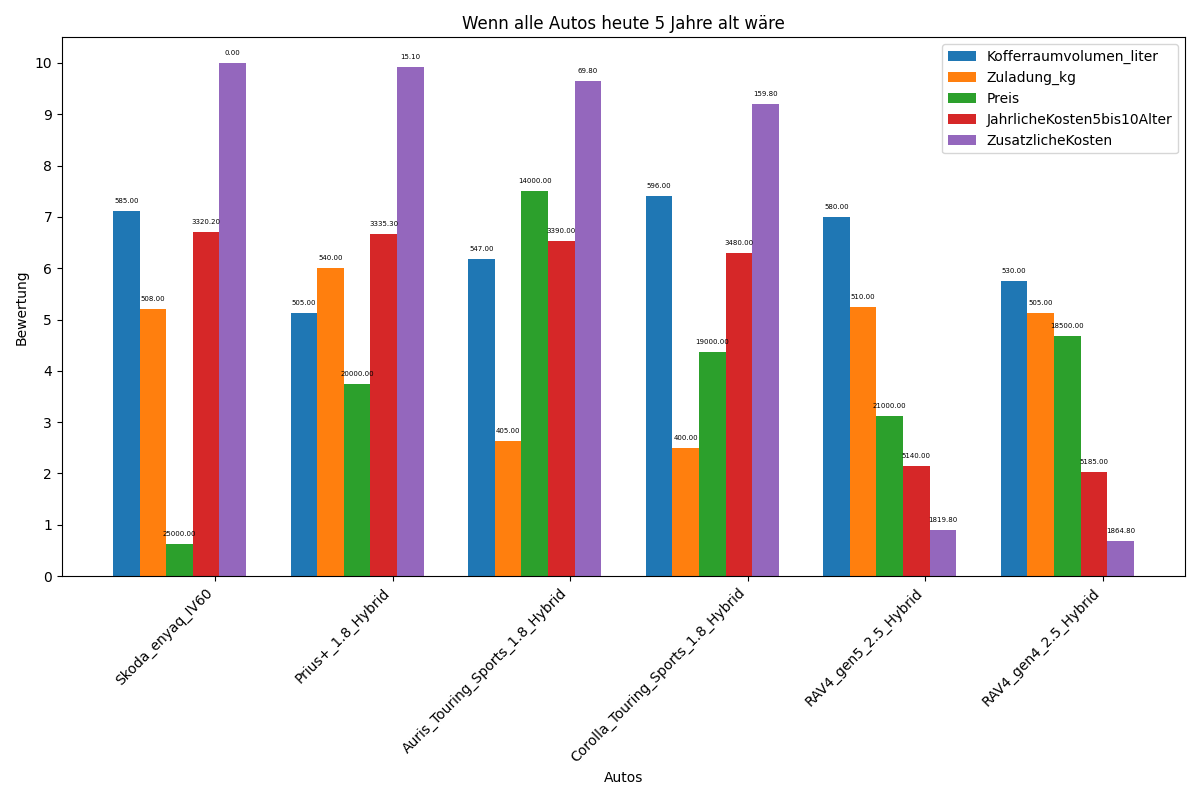
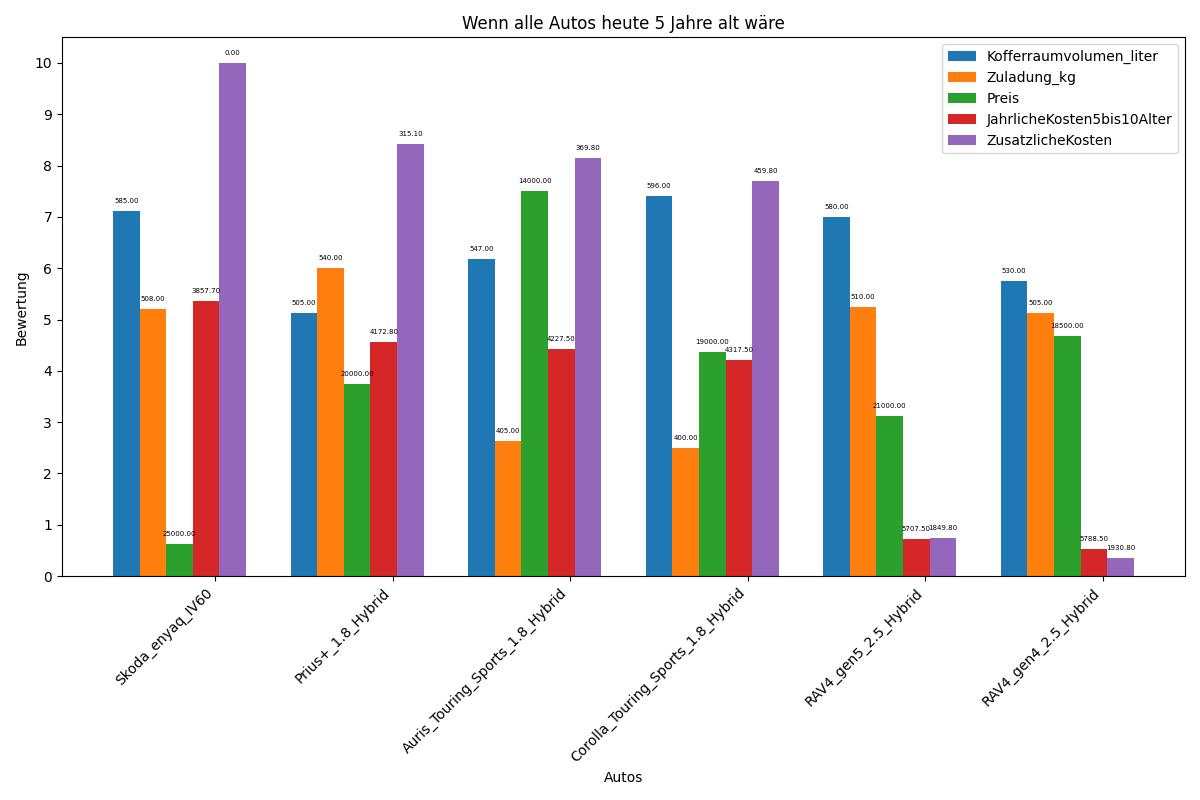
korrektion in kreisdiagramm

diff --git a/plotter.py b/plotter.py
@@ -52,11 +52,21 @@ class Plotter:
     def plot_kreisdiagramme(self):
         self.auto_kosten_df = self.auto_kosten_df.drop('Prius_1.8_Hybrid', errors='ignore')
         fig, axes = plt.subplots(nrows=2, ncols=3, figsize=(12, 8))
+
+        def absolute_value(val, sizes):
+            a = int(val/100.*sum(sizes))
+            return f'€{a}'
+
         for i, (index, row) in enumerate(self.auto_kosten_df.iterrows()):
             ax = axes[i // 3, i % 3]
-            labels = ['Nova', 'Versicherung jährlich', 'Werkstattkosten jährlich', 'Zusatz Spritkosten', 'Wertverlust pro Jahr']
-            sizes = [row['Nova'], row['Versicherung_jahrlich'], row['WerkstattkostenJahrlich'], row['ZusatzSpritkostenNachElektro'], row['Wertverlust_pro_Jahr']]
-            ax.pie(sizes, labels=labels, autopct='%1.1f%%', startangle=140, textprops={'fontsize': 8})
+            labels = ['Nova', 'Versicherung jährlich', 'Werkstattkosten jährlich', 'Zusatz Spritkosten', 'Wertverlust pro Jahr', 'Bleibt als Urlaubsgeld']
+            total_kosten = row['Nova']/5 + row['Versicherung_jahrlich'] + row['WerkstattkostenJahrlich'] + row['ZusatzSpritkostenNachElektro'] + row['Wertverlust_pro_Jahr']
+            if total_kosten < 6000:
+                urlaubsgeld = 6000 - total_kosten
+            else:
+                urlaubsgeld = 0
+            sizes = [row['Nova']/5, row['Versicherung_jahrlich'], row['WerkstattkostenJahrlich'], row['ZusatzSpritkostenNachElektro'], row['Wertverlust_pro_Jahr'], urlaubsgeld]
+            ax.pie(sizes, labels=labels, autopct=lambda p: absolute_value(p, sizes), startangle=140, textprops={'fontsize': 8})
             ax.set_title(f"{index}\nJährliche Kosten von 5 bis 10 Alter: €{row['JahrlicheKosten5bis10Alter']:.2f}")
 
         plt.suptitle('Kostenverteilung der Autos im 5. Jahr und Total Kosten auf 1 Jahre', fontsize=16)

diff --git a/calculations.py b/calculations.py
@@ -23,8 +23,9 @@ class Calculations:
         self.auto_kosten_df['ZusatzlicheKostenaufwand'] = self.auto_kosten_df['TotalKosten1Jahre'] - zweit_guenstigster_preis
         
         self.auto_kosten_df['Wertverlust_pro_Jahr'] = round(self.auto_kosten_df.apply(self.berechne_wertverlust_nach_fuenf_jahren, axis=1), 1)
-        self.auto_kosten_df['JahrlicheKosten5bis10Alter'] = round(self.auto_kosten_df['Wertverlust_pro_Jahr'] + self.auto_kosten_df['ZusatzSpritkosten'] + self.auto_kosten_df['Nova'] + self.auto_kosten_df['WerkstattkostenJahrlich'], 1)
+        self.auto_kosten_df['JahrlicheKosten5bis10Alter'] = round(self.auto_kosten_df['Wertverlust_pro_Jahr'] + self.auto_kosten_df['ZusatzSpritkostenNachElektro'] + self.auto_kosten_df['Nova']/5 + self.auto_kosten_df['WerkstattkostenJahrlich'] + self.auto_kosten_df['Versicherung_jahrlich'],  1)
 
+# Bestimme den zweitgünstigsten Preis
         zweit_guenstigster_preis = self.auto_kosten_df['JahrlicheKosten5bis10Alter'].nsmallest(1).iloc[-1]
         self.auto_kosten_df['ZusatzlicheKosten'] = self.auto_kosten_df['JahrlicheKosten5bis10Alter'] - zweit_guenstigster_preis
 
